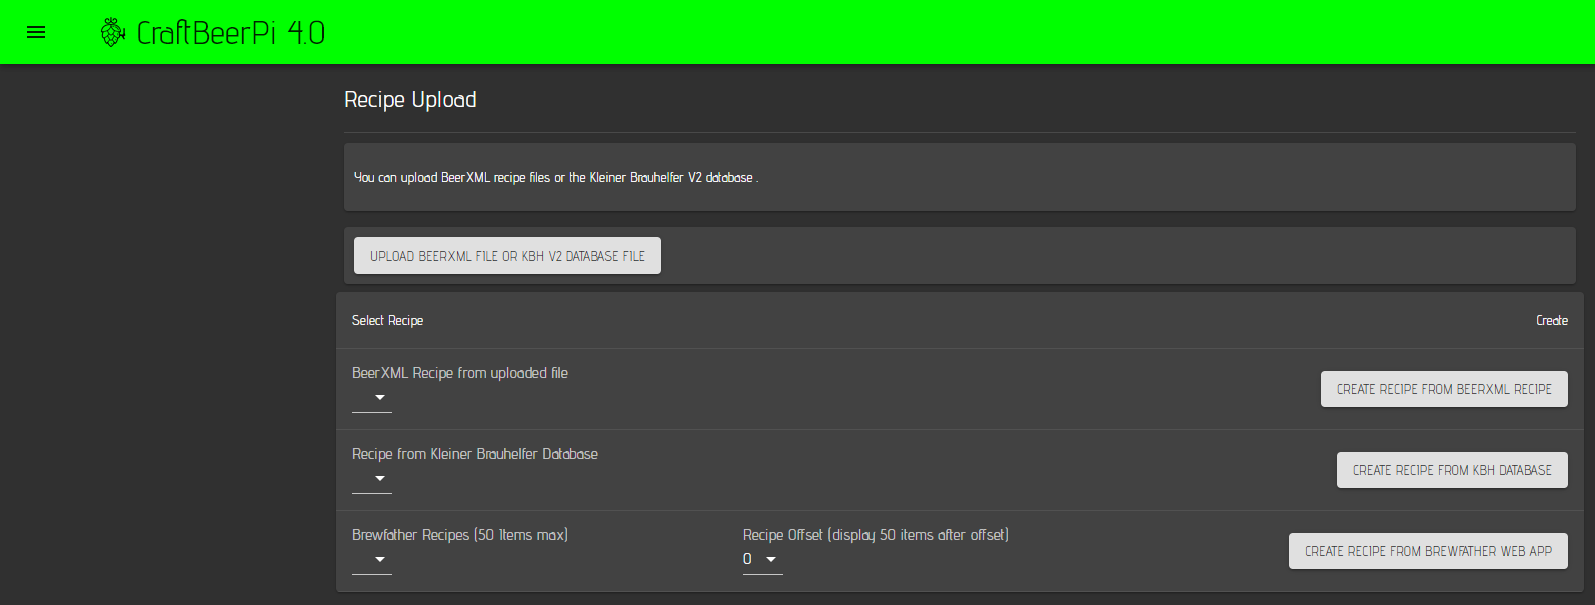
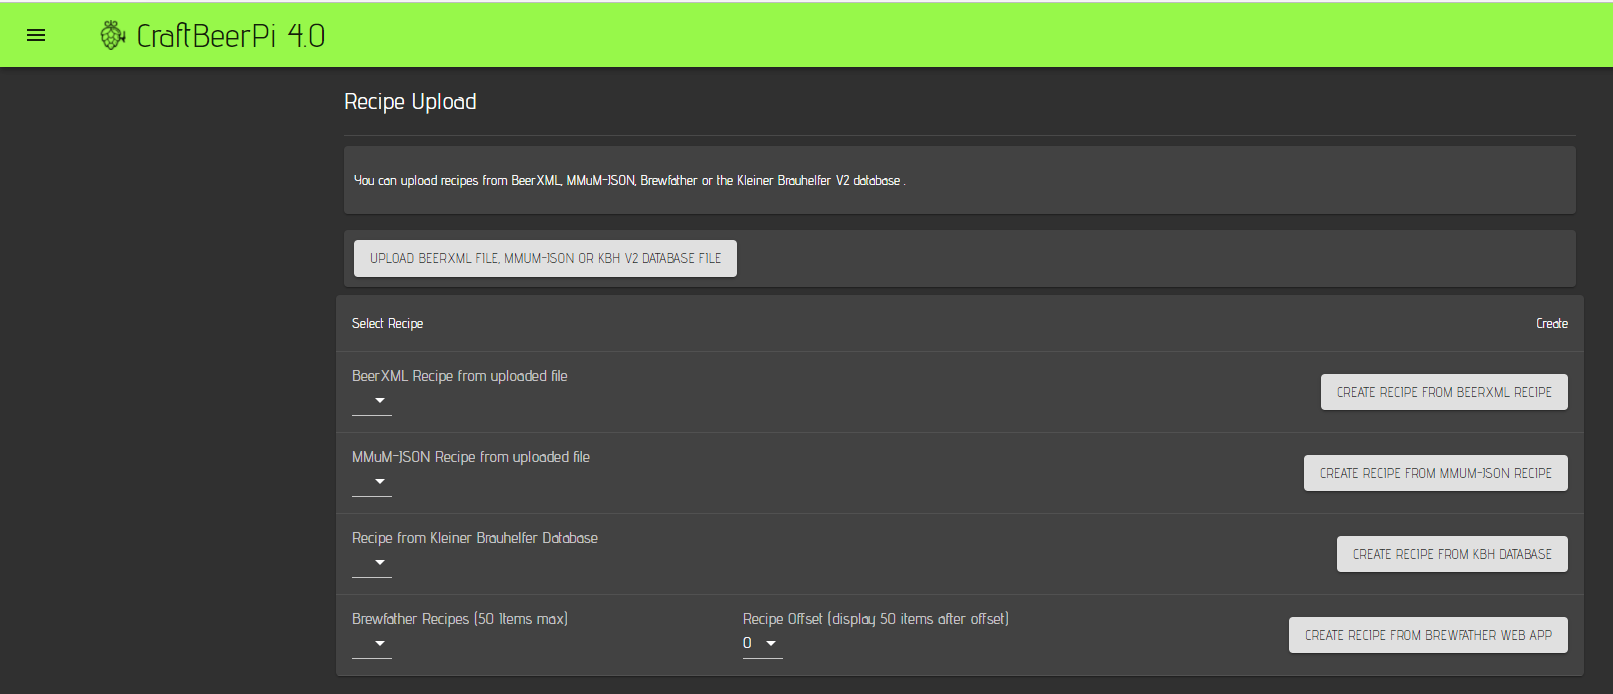
MuMM upload

diff --git a/master/craftbeerpi-4-server/recipe-upload.md b/master/craftbeerpi-4-server/recipe-upload.md
@@ -7,10 +7,14 @@ CraftbeerPi 4 has the possibility to create recipes automatically. There are thr
 1.  beerxml Files:
 
     If you are using an application that can export files in the beerxml standard (e.G. [Beersmith](http://beersmith.com)), you can upload the beerxml based file to CraftbeerPi4 and create a recipe from the file.
-2.  [Kleiner Brauhelfer 2 ](https://github.com/kleiner-brauhelfer/kleiner-brauhelfer-2)(KBH2) database file:
+
+2.  JSON recipe files from [MaischeMalzundMehr](https://www.maischemalzundmehr.de/)
+    You can upload JSON based recipe files from the [MuMM](https://www.maischemalzundmehr.de/) page like the beerxml files and create a CraftbeerPi4 recipe
+
+3.  [Kleiner Brauhelfer 2 ](https://github.com/kleiner-brauhelfer/kleiner-brauhelfer-2)(KBH2) database file:
 
     You can also upload the sqlite database file to CraftbeerPi 4 and select any recipe from the database to create a local CraftbeerPi 4 recipe automatically and start brewing
-3.  Brewfather API (Paid BF Premium account required):
+4.  Brewfather API (Paid BF Premium account required):
 
     If you have a paid Brewfather Premium account you need to go to settings and create an API Key that allows you to read recipes. The brewfather app will provide you a user id and an api key. You need to enter both strings into the corresponding parameters in the [CraftbeerPi settings.](settings.md#recipe-creation-settings) Don't forget to hit the save button on the settings page.
 
